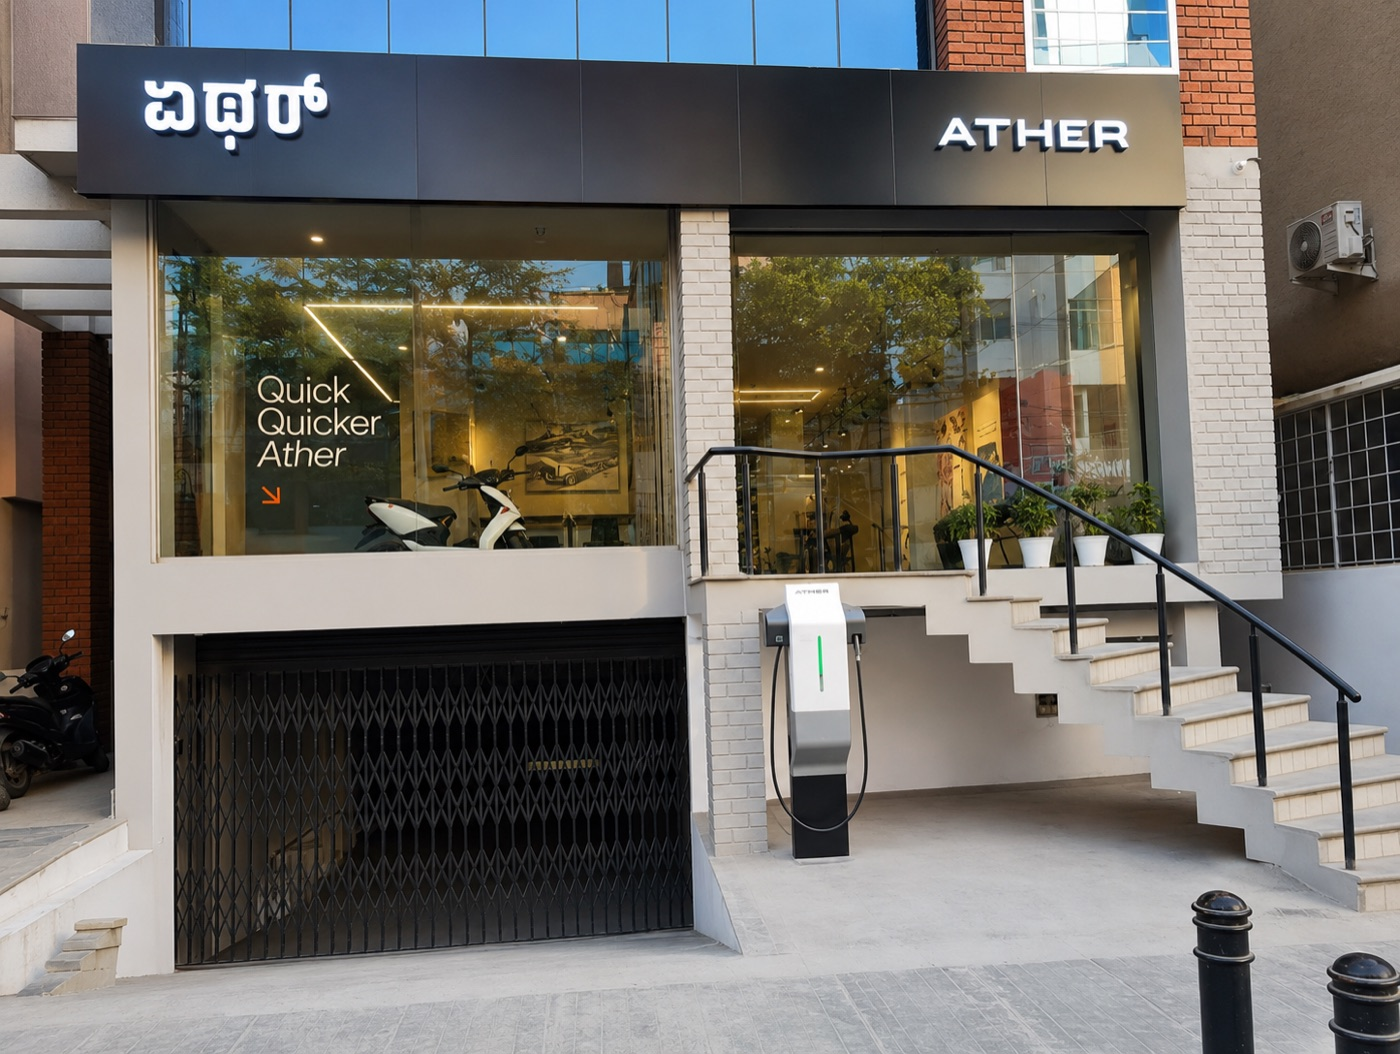
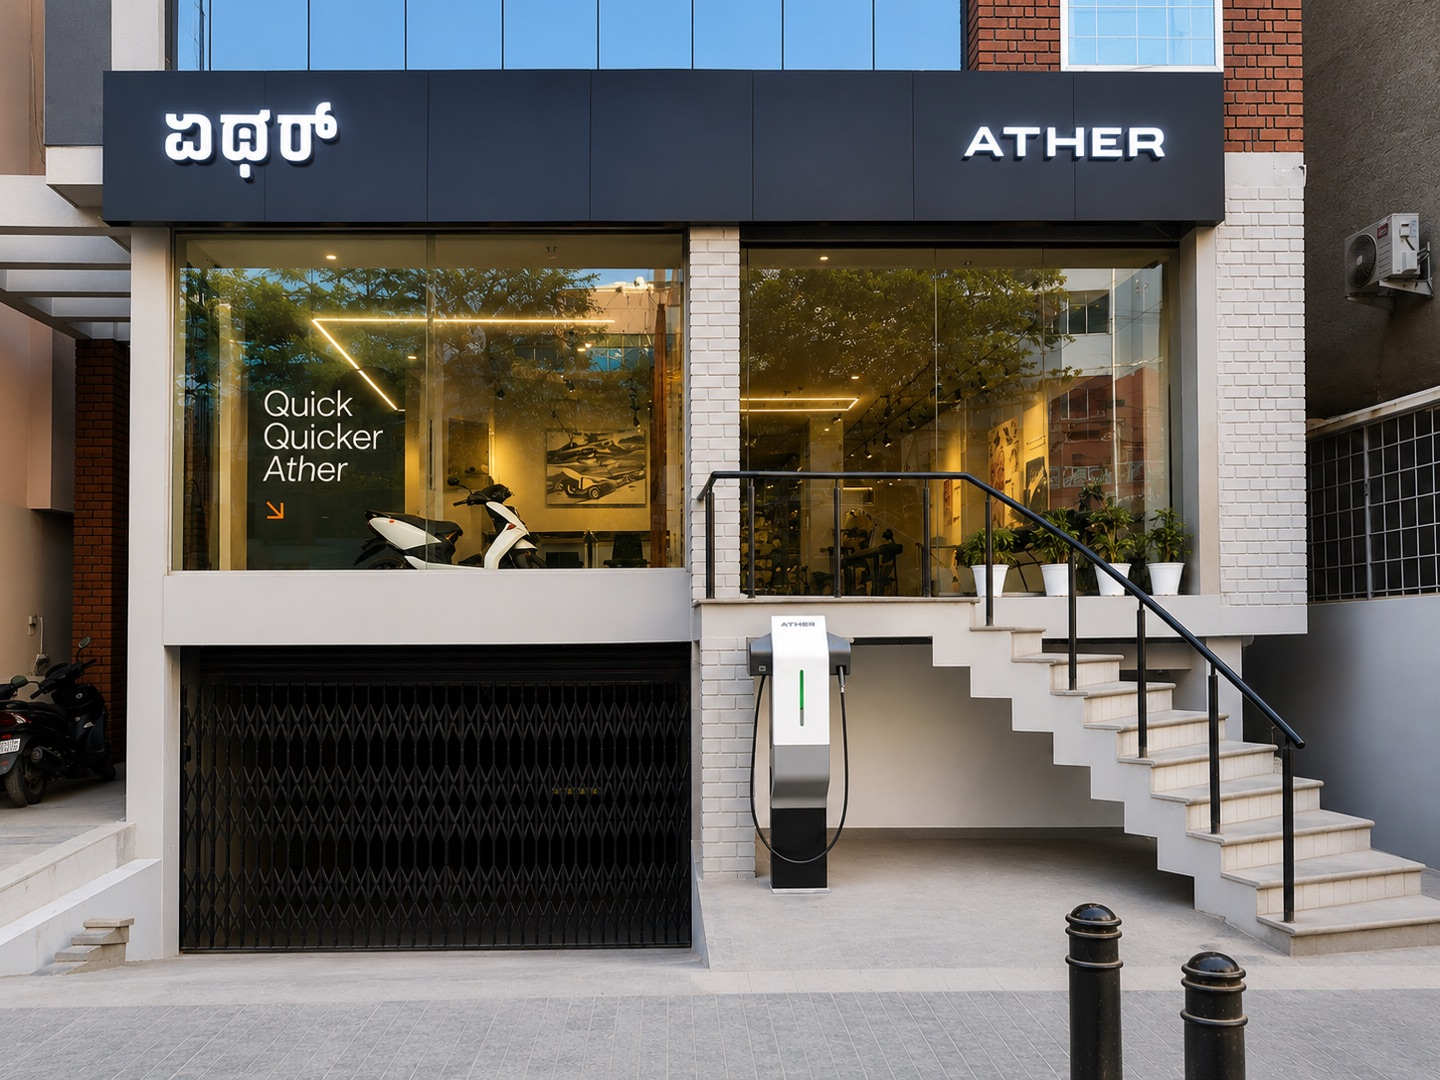
Add HSR store photo and Koramangala service-centre address
- HSR experience centre is operational: use its real storefront photo
  (brand-card fallback no longer shown for HSR)
- Koramangala service station is at a different address than the
  experience centre — add serviceAddress and surface it on the service
  page ("Where we service"), so service bookings aren't misdirected
- HSR service booking stays disabled (service station not yet open)

diff --git a/src/app/service/page.tsx b/src/app/service/page.tsx
@@ -1,6 +1,9 @@
 import type { Metadata } from "next";
 import ServiceForm from "@/components/ServiceForm";
+import { stores } from "@/data/site.data";
 import { JsonLd, breadcrumbSchema } from "@/lib/jsonld";
+
+const serviceCentre = stores.find((s) => s.serviceAvailable && s.serviceAddress);
 
 export const metadata: Metadata = {
   title: "Ather Service in Bengaluru — Book Online, Pickup & Drop | Autoelite",
@@ -25,6 +28,13 @@ export default function ServicePage() {
           <div style={{ fontWeight: 800, fontSize: 15 }}>First-service reminder</div>
           <div style={{ marginTop: 6, fontSize: 13, lineHeight: 1.45, color: "var(--muted-2)" }}>Opt in and we&apos;ll nudge you when it&apos;s due.</div>
         </div>
+        {serviceCentre?.serviceAddress && (
+          <div className="card" style={{ padding: 18 }}>
+            <div style={{ fontWeight: 800, fontSize: 15 }}>Where we service</div>
+            <div style={{ marginTop: 6, fontSize: 13, lineHeight: 1.45, color: "var(--muted-2)" }}>{serviceCentre.serviceAddress}</div>
+            <div style={{ marginTop: 6, fontSize: 12, lineHeight: 1.4, color: "var(--faint)" }}>Our {serviceCentre.name} service centre — a separate location from the showroom.</div>
+          </div>
+        )}
       </div>
     </main>
   );

diff --git a/src/data/site.data.ts b/src/data/site.data.ts
@@ -20,6 +20,7 @@ export interface Store {
   mapEmbed: string;
   serviceAvailable: boolean; // false → hidden from the service-booking store picker
   photo?: string;            // public/ path to a real storefront photo; if absent, a brand card is shown
+  serviceAddress?: string;   // service centre address when it differs from the showroom/experience centre
 }
 
 export const WHATSAPP_NUMBER = "918047182200";
@@ -43,6 +44,7 @@ export const stores: Store[] = [
     mapEmbed: "https://www.google.com/maps?q=Koramangala,Bengaluru&output=embed",
     serviceAvailable: true,
     photo: "/stores/koramangala.jpg",
+    serviceAddress: "620, 17th A Main Rd, 6th Block, Koramangala, Bengaluru, Karnataka 560095",
   },
   {
     id: "hsr-layout",
@@ -59,6 +61,7 @@ export const stores: Store[] = [
     mapsUrl: "https://maps.google.com/?q=Autoelite+HSR+Layout+Bengaluru",
     mapEmbed: "https://www.google.com/maps?q=HSR+Layout,Bengaluru&output=embed",
     serviceAvailable: false, // HSR service station not yet operational (2026-07-30)
+    photo: "/stores/hsr.jpg",
   },
 ];
 
